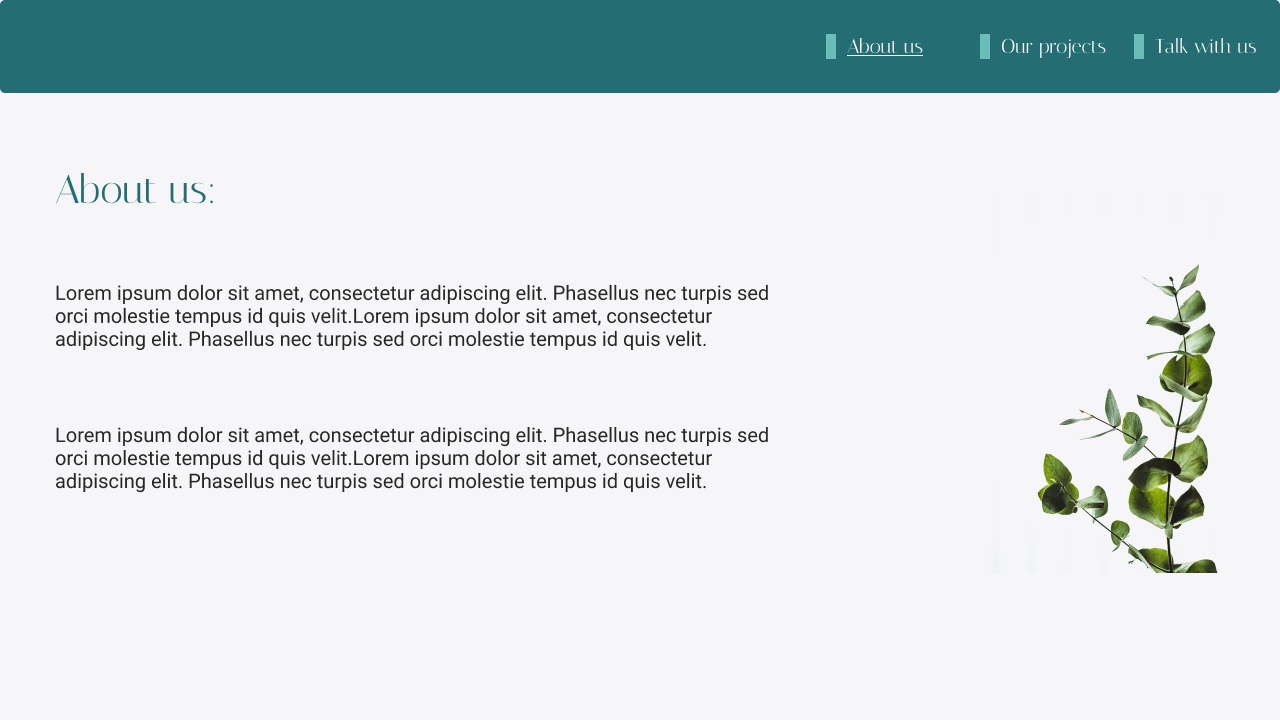
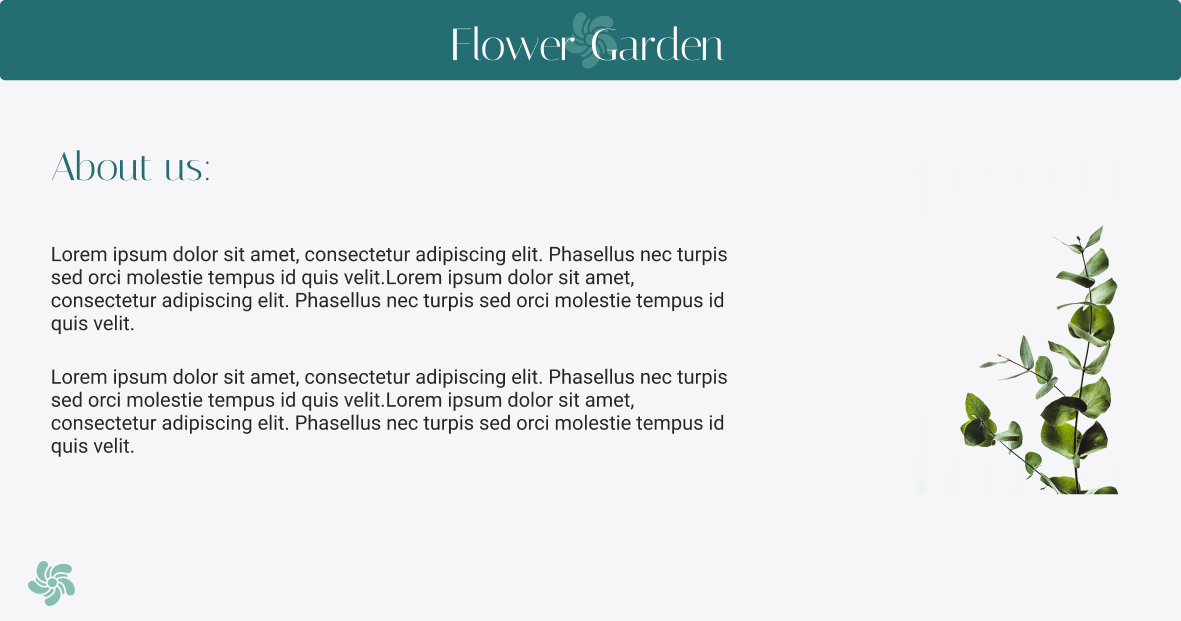
Project description update

diff --git a/README.md b/README.md
@@ -31,6 +31,10 @@ O intuito desse projeto foi desenvolver uma página com o uso do **Display grid*
 
 ## Confira o projeto:
 
+<p>
+  Uma pequena amosta sobre o que esperar do projeto!
+</p>
+
 <br>
 
 
@@ -42,7 +46,8 @@ O intuito desse projeto foi desenvolver uma página com o uso do **Display grid*
 
 ## Acesse o projeto!
 
-> :warning: **Em andamento**
+
+[FlowerGarden.com] (https://eduvieira131.github.io/Flower-garden/)
 
 ---
 <br>
